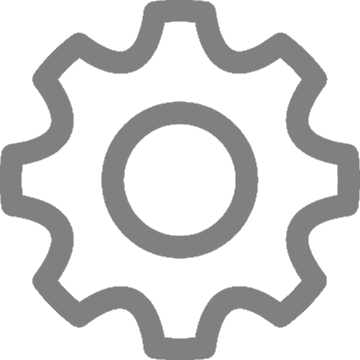
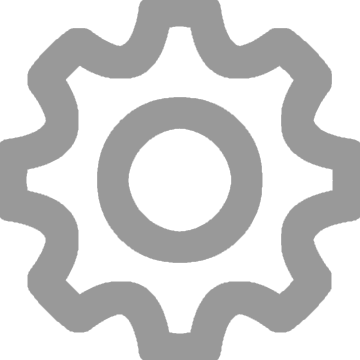
server setup interface

diff --git a/Console/ServerSetupInterface.py b/Console/ServerSetupInterface.py
@@ -3,7 +3,7 @@ import threading
 
 from CTkMessagebox import CTkMessagebox
 from PIL import Image
-from ColoredTextbox import ColoredTextbox
+from CTkColoredTextbox import CTkColoredTextbox
 from ServerConsole import Server
 
 
@@ -11,7 +11,7 @@ class ServerSetupInterface(customtkinter.CTk):
     def __init__(self, *args, **kwargs):
         super().__init__(*args, **kwargs)
         customtkinter.set_appearance_mode("dark")
-        customtkinter.set_default_color_theme("blue")
+        customtkinter.set_default_color_theme("dark-blue")
         self.title("Server Setup")
         self.server: Server | None = None
         self.server_status: bool = False
@@ -42,9 +42,8 @@ class ServerSetupInterface(customtkinter.CTk):
         self.title_label = customtkinter.CTkLabel(self.main_frame, text="Server Setup", font=("Arial", 20, "bold"), corner_radius=10, text_color="white")
         self.host_entry = customtkinter.CTkEntry(self.main_frame, 50, placeholder_text="IP Address")
         self.port_entry = customtkinter.CTkEntry(self.main_frame, 50, placeholder_text="Port")
-        settings_image = customtkinter.CTkImage(Image.open("../Images/settings-icon-disabled.png"), size=(20, 20))
         self.start_button = customtkinter.CTkButton(self.main_frame, text="Check config", font=("Arial", 15, "bold"), corner_radius=10,
-                                                    command=self.start_server, state=customtkinter.DISABLED, image=settings_image, compound="left", text_color=("white", "white"))
+                                                    command=self.start_server, state=customtkinter.DISABLED, text_color=("white", "white"))
 
         self.host_entry.bind("<KeyRelease>", self.check_entries)
         self.port_entry.bind("<KeyRelease>", self.check_entries)
@@ -52,14 +51,15 @@ class ServerSetupInterface(customtkinter.CTk):
         self.title_label.pack(pady=3, fill=customtkinter.X, expand=True)
         self.host_entry .pack(pady=3, fill=customtkinter.X, expand=True, padx=50)
         self.port_entry .pack(pady=3, fill=customtkinter.X, expand=True, padx=50)
-        self.start_button.pack(pady=3, fill=customtkinter.X, expand=True, padx=50)
+        self.start_button.pack(pady=3, fill=customtkinter.X, expand=True, padx=54)
 
     def fill_status_interface(self):
         self.server_info_label = customtkinter.CTkLabel(self.main_frame, text="Server Info", font=("Arial", 20, "bold"), corner_radius=10, text_color="white")
         self.server_info_label.pack(pady=40, fill=customtkinter.X, expand=True)
 
-        self.server_status_label = ColoredTextbox(self.main_frame, fg_color="transparent", font=("Arial", 15, "bold"), corner_radius=10, height=70, width=50)
+        self.server_status_label = CTkColoredTextbox(self.main_frame, fg_color="transparent", font=("Arial", 15, "bold"), corner_radius=10, height=70, width=50)
         self.server_status_label.add("Server status:", "white", line_break=True)
+        self.server_status_label.add("    Running", "green")
         self.server_status_label.pack(pady=0, padx=60, fill=customtkinter.X, expand=True)
 
         self.running_server_progress_bar = customtkinter.CTkProgressBar(self.main_frame, 100, corner_radius=10, mode="determinate", progress_color="green")
@@ -108,7 +108,7 @@ class ServerSetupInterface(customtkinter.CTk):
         self.restart_server_button.pack(pady=30, fill=customtkinter.BOTH, expand=True, padx=50)
         self.restart_server_button.configure(state=customtkinter.DISABLED)
 
-        self.after(1450, lambda: self.restart_server_button.configure(state=customtkinter.NORMAL))
+        self.after(500, lambda: self.restart_server_button.configure(state=customtkinter.NORMAL))
 
     def restart_server(self):
         self.server_event.set()
@@ -121,9 +121,7 @@ class ServerSetupInterface(customtkinter.CTk):
         self.stop_server_button.pack(pady=30, fill=customtkinter.BOTH, expand=True, padx=50)
         self.stop_server_button.configure(state=customtkinter.DISABLED)
 
-        self.after(1450, lambda: self.stop_server_button.configure(state=customtkinter.NORMAL))
-
-
+        self.after(500, lambda: self.stop_server_button.configure(state=customtkinter.NORMAL))
 
     def self_hide_config_interface(self):
         self.title_label.pack_forget()

diff --git a/Console/CTkColoredTextbox.py b/Console/CTkColoredTextbox.py
@@ -1,7 +1,7 @@
 import customtkinter as ctk
 
 
-class ColoredTextbox(ctk.CTkTextbox):
+class CTkColoredTextbox(ctk.CTkTextbox):
     def __init__(self, *args, **kwargs):
         ctk.CTkTextbox.__init__(self, *args, **kwargs)
 
